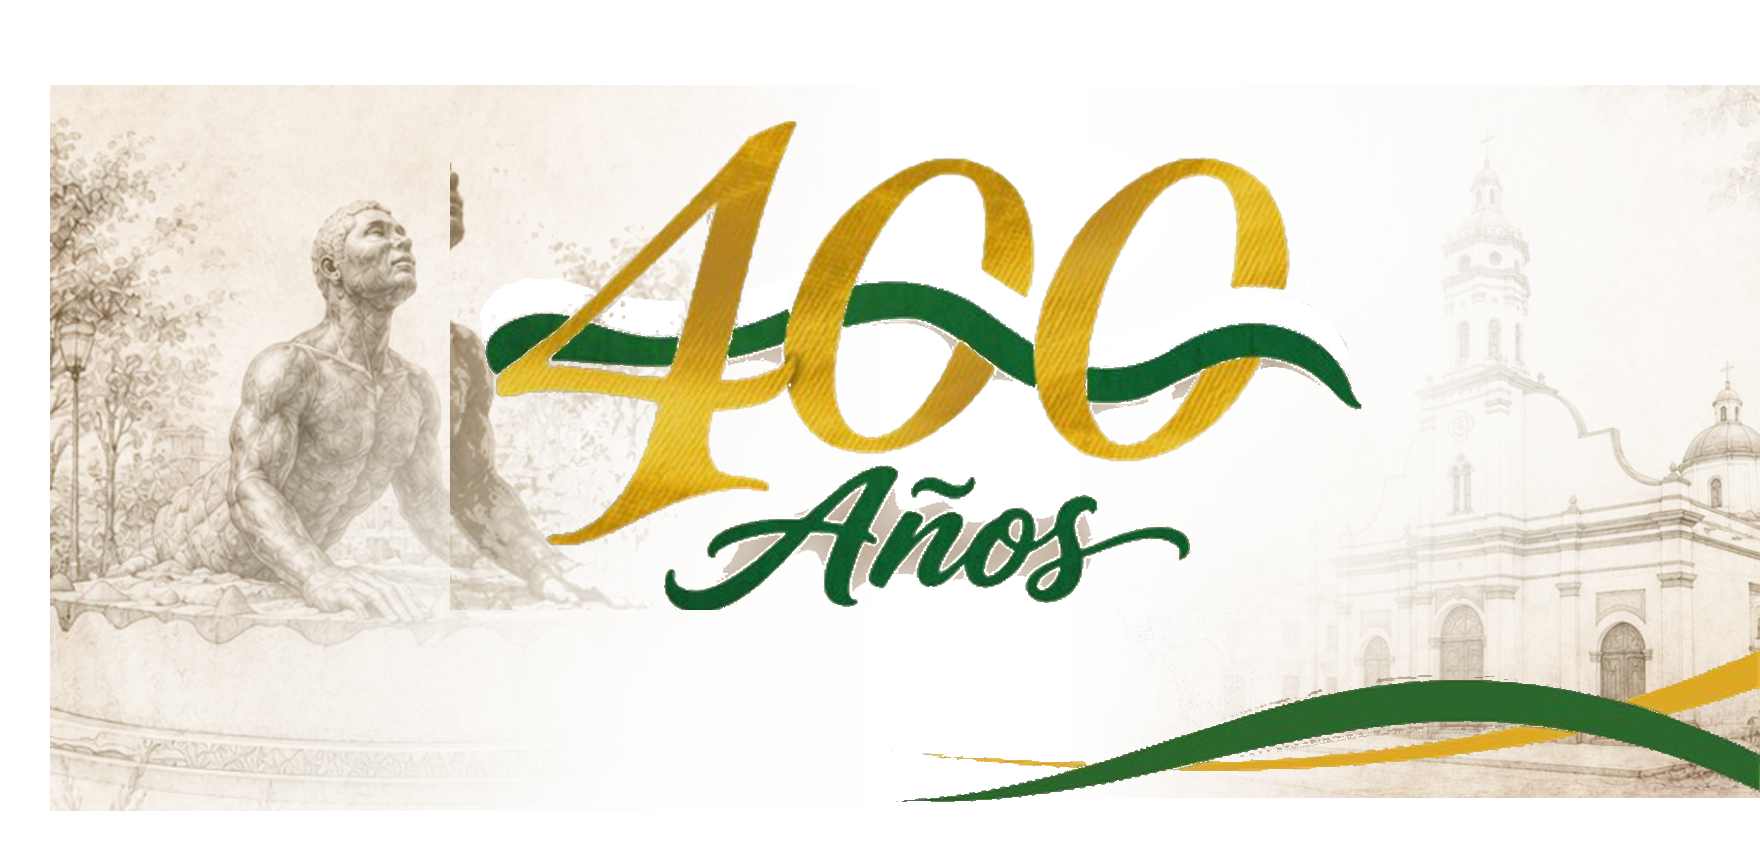
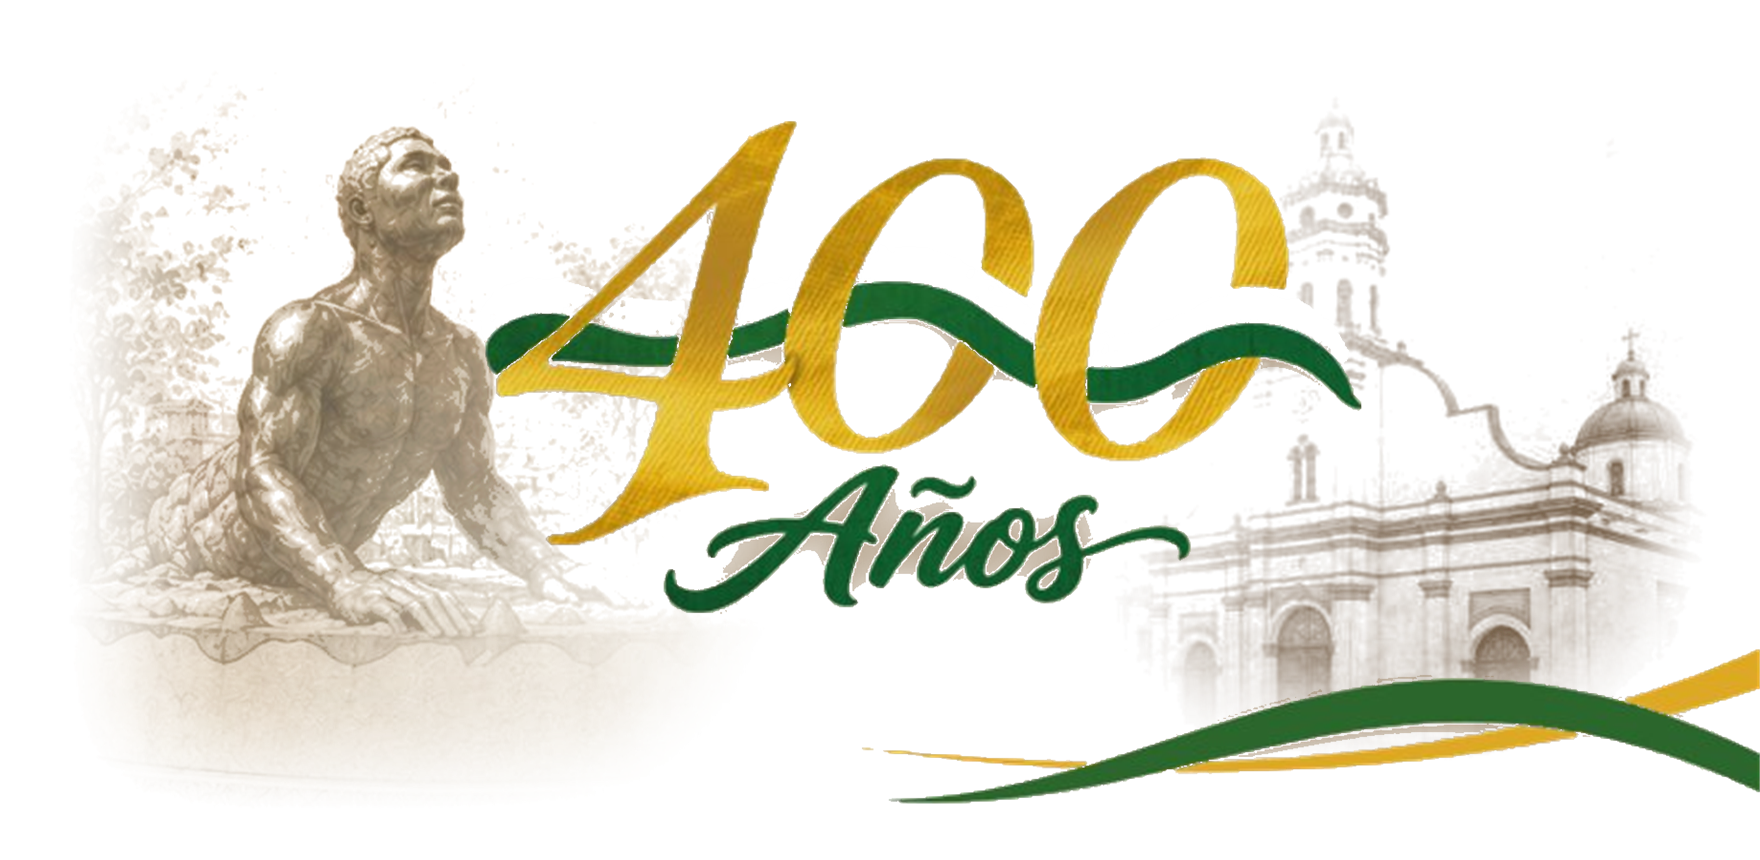
fix(hero): unificar en una sola imagen continua oficial eliminando recuadro y ubicando la iglesia a la izquierda segun imagen 2

diff --git a/src/app/pages/home/home.html b/src/app/pages/home/home.html
@@ -39,7 +39,7 @@
     <div class="hero-right-artwork">
       <figure class="artwork-figure">
         <img
-          src="hero-400-target-v3.png"
+          src="hero-400-target.png"
           [alt]="t().heroAlt"
           class="artwork-composite-img"
           fetchpriority="high"
